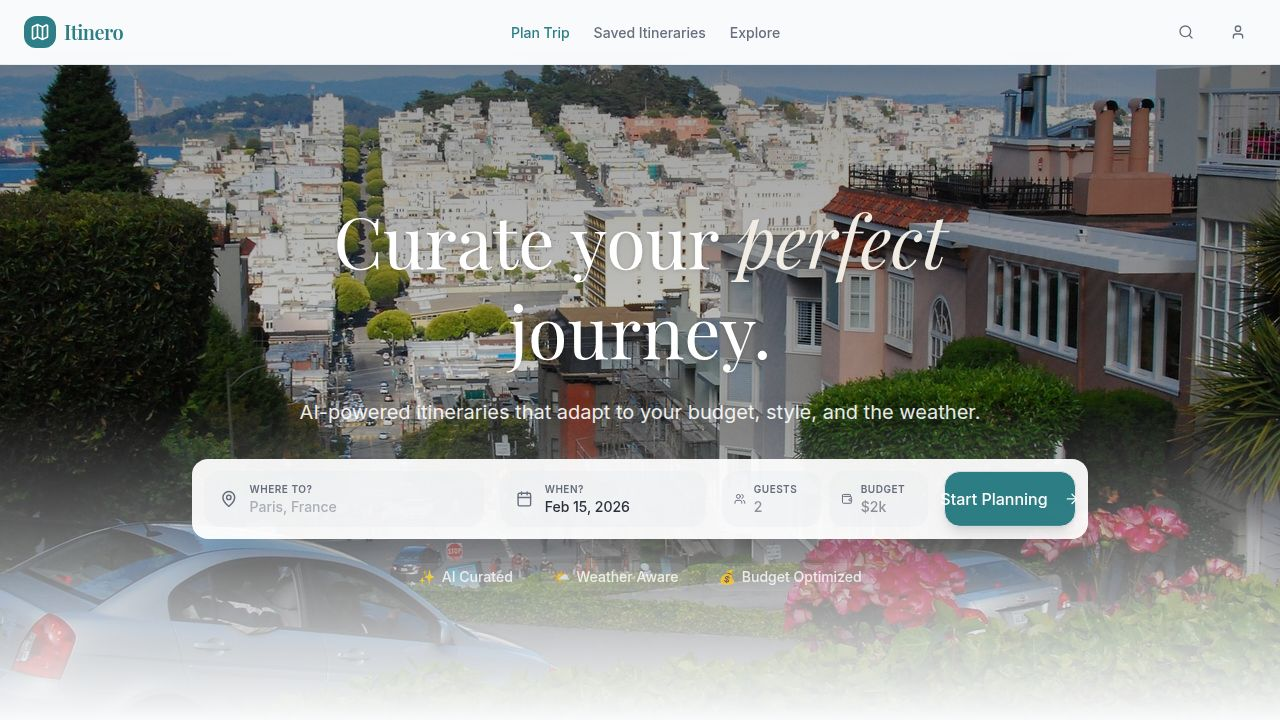
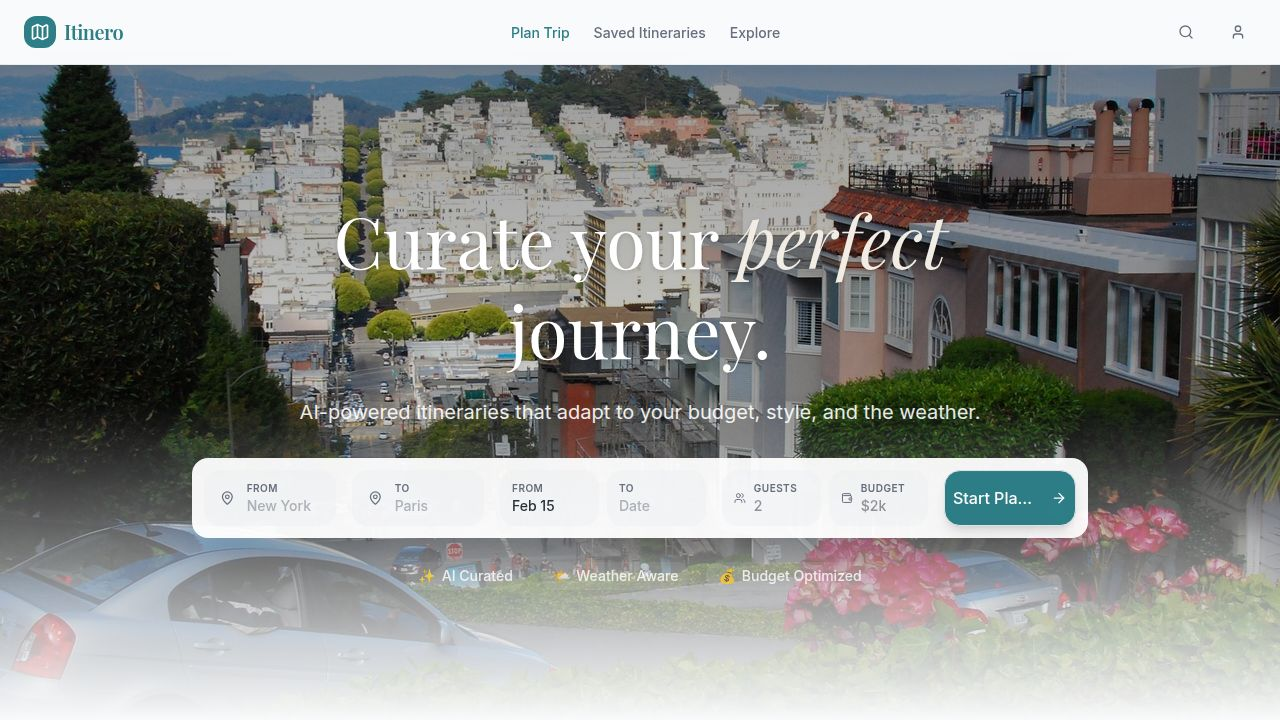
Add a departure location input field to the trip planning form
Adds a "From" input field to the home page form, alongside the destination input, to allow users to specify their departure location.

Replit-Commit-Author: Agent
Replit-Commit-Session-Id: 524550aa-b5cd-459a-bc70-d3cc2275a031
Replit-Commit-Checkpoint-Type: full_checkpoint
Replit-Commit-Event-Id: a5536d47-1b71-4c06-9c20-afe9a82fe95c
Replit-Commit-Screenshot-Url: https://storage.googleapis.com/screenshot-production-us-central1/688f17bb-9bb7-43a0-bb80-4350ba890746/524550aa-b5cd-459a-bc70-d3cc2275a031/ckiMkBS
Replit-Helium-Checkpoint-Created: true

diff --git a/client/src/pages/home.tsx b/client/src/pages/home.tsx
@@ -58,16 +58,33 @@ export default function Home() {
           >
             <form onSubmit={handleSearch} className="grid grid-cols-1 gap-2 rounded-2xl bg-white/95 p-2 shadow-2xl backdrop-blur-sm lg:grid-cols-12 lg:items-center lg:gap-4 lg:p-3">
               
-              {/* Destination Input */}
-              <div className="col-span-1 lg:col-span-4">
+              {/* Origin Input */}
+              <div className="col-span-1 lg:col-span-2">
                 <div className="relative flex h-14 items-center rounded-xl bg-muted/50 px-4 transition-colors hover:bg-muted/80">
                   <MapPin className="mr-3 h-5 w-5 text-muted-foreground" />
                   <div className="flex w-full flex-col items-start text-left">
-                    <Label htmlFor="destination" className="text-[10px] font-semibold uppercase tracking-wider text-muted-foreground">Where to?</Label>
+                    <Label htmlFor="origin" className="text-[10px] font-semibold uppercase tracking-wider text-muted-foreground">From</Label>
+                    <input 
+                      id="origin" 
+                      type="text" 
+                      placeholder="New York" 
+                      className="w-full bg-transparent text-sm font-medium text-foreground outline-none placeholder:text-muted-foreground/50"
+                      required
+                    />
+                  </div>
+                </div>
+              </div>
+
+              {/* Destination Input */}
+              <div className="col-span-1 lg:col-span-2">
+                <div className="relative flex h-14 items-center rounded-xl bg-muted/50 px-4 transition-colors hover:bg-muted/80">
+                  <MapPin className="mr-3 h-5 w-5 text-muted-foreground" />
+                  <div className="flex w-full flex-col items-start text-left">
+                    <Label htmlFor="destination" className="text-[10px] font-semibold uppercase tracking-wider text-muted-foreground">To</Label>
                     <input 
                       id="destination" 
                       type="text" 
-                      placeholder="Paris, France" 
+                      placeholder="Paris" 
                       className="w-full bg-transparent text-sm font-medium text-foreground outline-none placeholder:text-muted-foreground/50"
                       required
                     />
